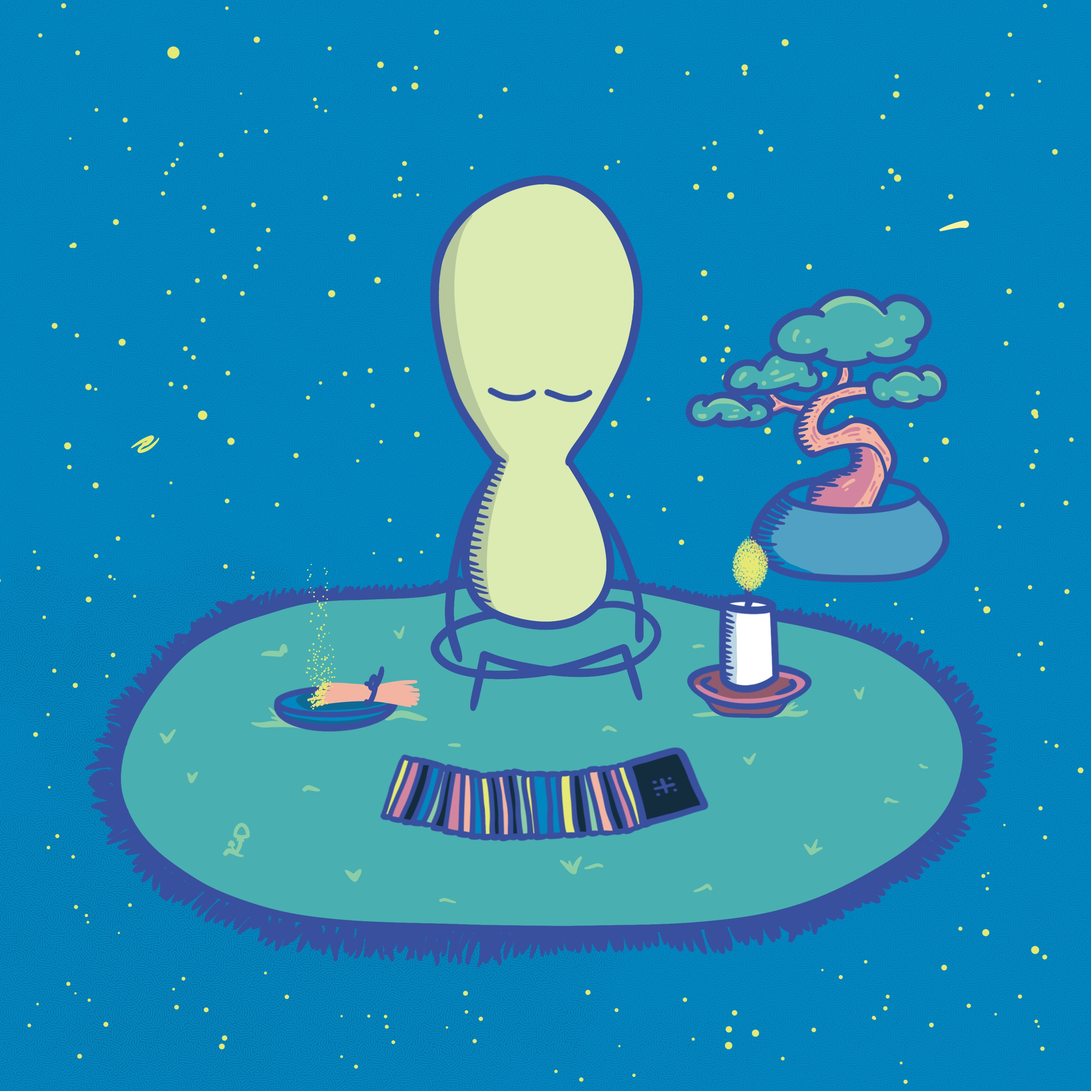
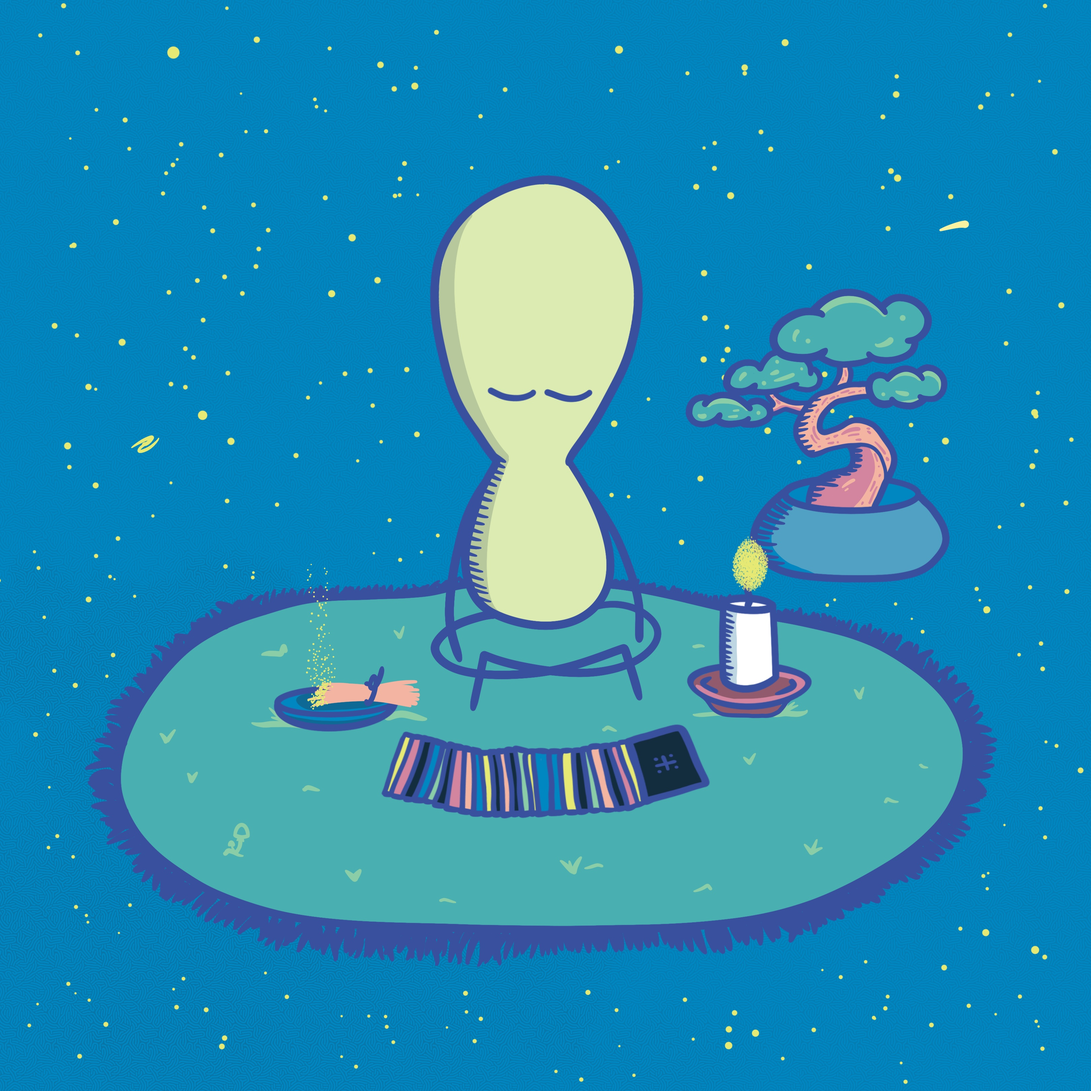
add 3rd onboarding img

Changed region(s): [[0.3429, 0.6546, 0.6546, 0.7793]]

diff --git a/src/views/Onboarding.vue b/src/views/Onboarding.vue
@@ -15,7 +15,7 @@
             color: "#0282BB"
         },
         {
-            src: "../Oracle_2.jpg",
+            src: "../Oracle_3.jpg",
             color: "#49AFB1"
         },
     ]);
